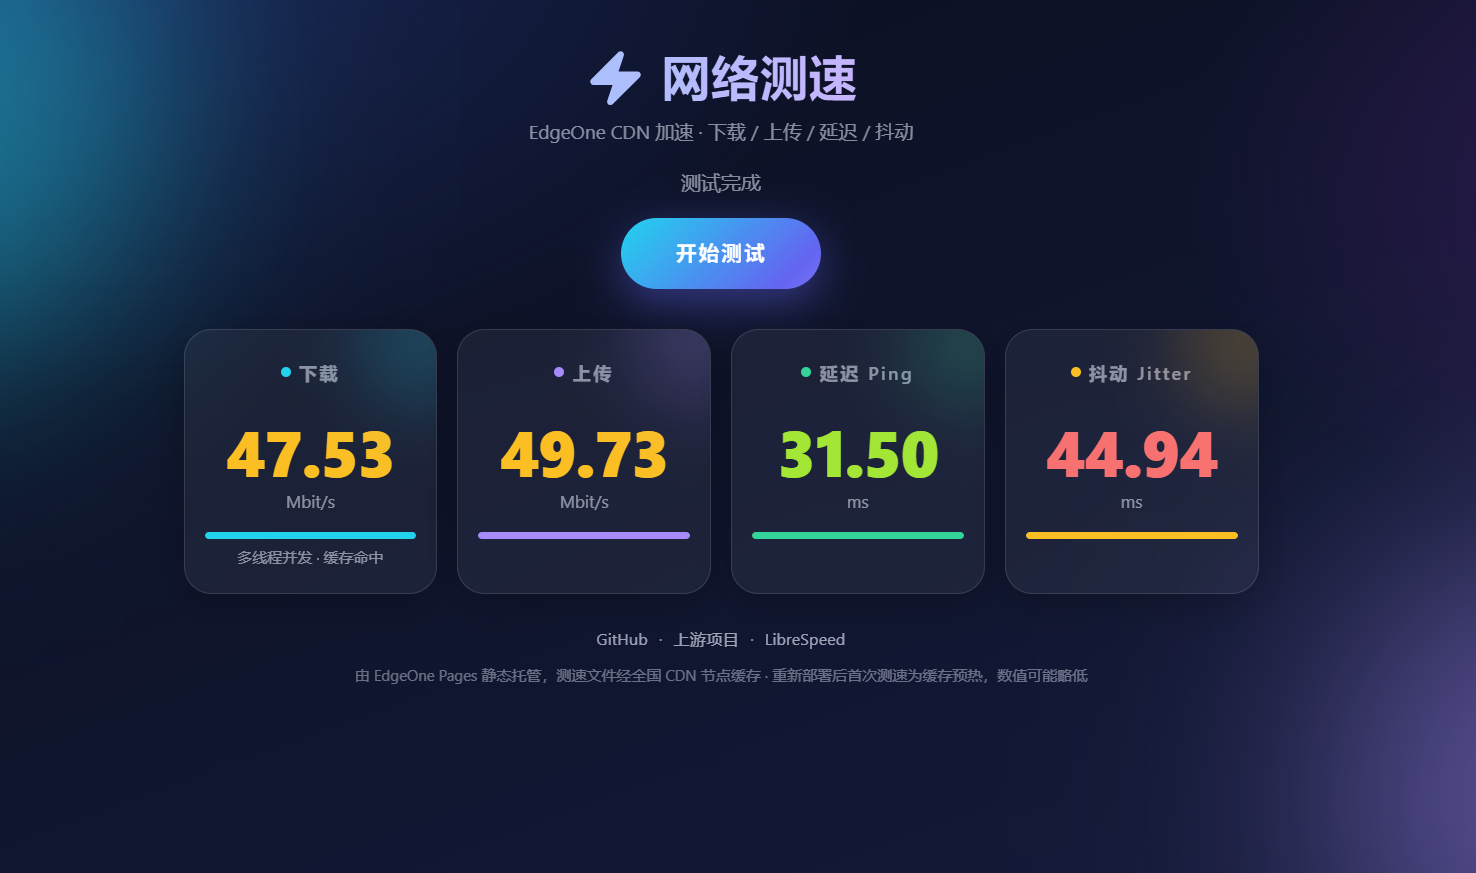
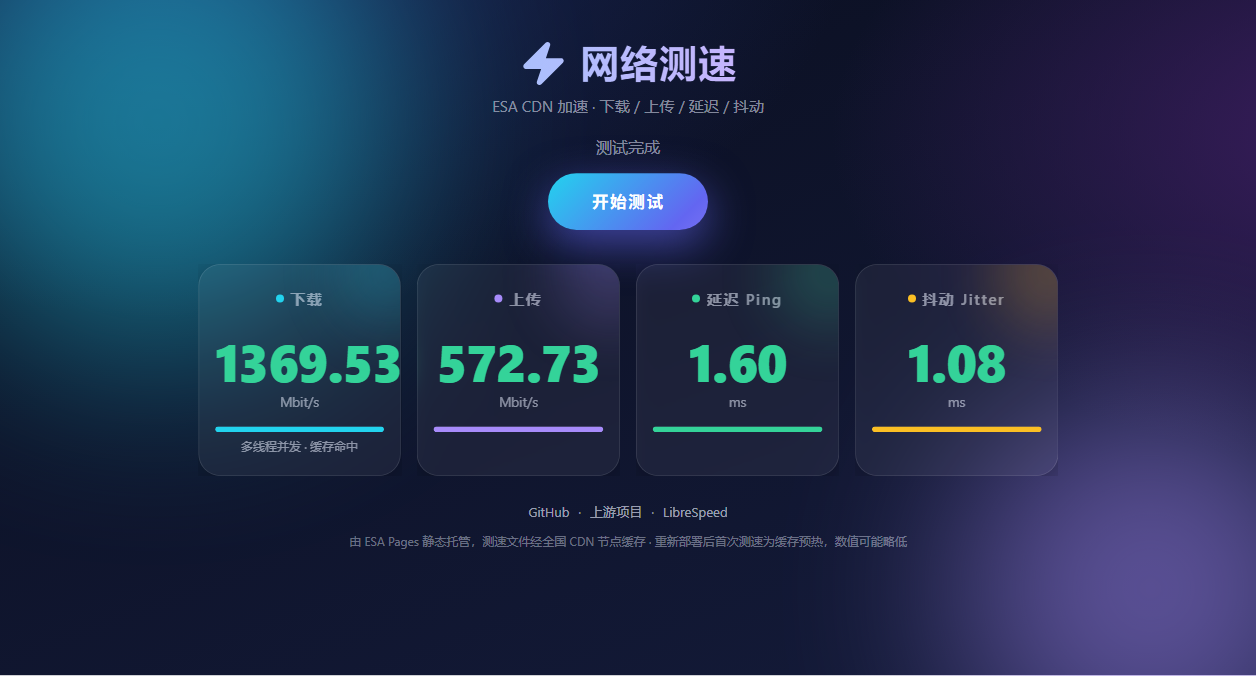
项目更名 esa-speedtest：全盘清除旧名称引用，README 重构，更新演示截图

diff --git a/index.html b/index.html
@@ -3,7 +3,7 @@
 <head>
 <meta charset="UTF-8" />
 <meta name="viewport" content="width=device-width, initial-scale=1, shrink-to-fit=no, user-scalable=no" />
-<title>EdgeOne 网络测速</title>
+<title>ESA 网络测速</title>
 <link rel="icon" type="image/svg+xml" href="favicon.svg" />
 <script type="text/javascript" src="speedtest.js"></script>
 <style type="text/css">
@@ -120,7 +120,7 @@
 <div class="container">
 	<header>
 		<h1>⚡ 网络测速</h1>
-		<p class="sub">EdgeOne CDN 加速 · 下载 / 上传 / 延迟 / 抖动</p>
+		<p class="sub">ESA CDN 加速 · 下载 / 上传 / 延迟 / 抖动</p>
 	</header>
 
 	<div id="status">点击下方按钮开始测速</div>
@@ -162,12 +162,10 @@
 	</div>
 
 	<footer>
-		<a href="https://github.com/Riku1998/eo-speedtest">GitHub</a>
-		·
-		<a href="https://github.com/Zinc23333/eo-speedtest">上游项目</a>
+		<a href="https://github.com/Riku1998/esa-speedtest">GitHub</a>
 		·
 		<a href="https://github.com/librespeed/speedtest">LibreSpeed</a>
-		<span class="note">由 EdgeOne Pages 静态托管，测速文件经全国 CDN 节点缓存 · 重新部署后首次测速为缓存预热，数值可能略低</span>
+		<span class="note">由 ESA Pages 静态托管，测速文件经全国 CDN 节点缓存 · 重新部署后首次测速为缓存预热，数值可能略低</span>
 	</footer>
 </div>
 

diff --git a/README.md b/README.md
@@ -1,23 +1,14 @@
-# eo-speedtest
+# esa-speedtest
 
-一个基于 [LibreSpeed](https://github.com/librespeed/speedtest) 的网页版网络速度测试工具，可部署在腾讯 EdgeOne Pages 或阿里云 ESA Pages，用于测试网络的下载速度、上传速度、延迟和抖动。
+一个基于 [LibreSpeed](https://github.com/librespeed/speedtest) 的网页版网络速度测试工具，部署于阿里云 ESA Pages，用于测试网络的下载速度、上传速度、延迟和抖动。
 
 ![测速结果示例](/screenshot.png)
 
-## 部署方法
-
-### 腾讯 EdgeOne Pages
-
-clone 项目并进入项目目录：
-``` sh
-edgeone pages deploy -n speedtest
-```
-
-### 阿里云 ESA Pages（本适配分支）
+## 部署方法（阿里云 ESA Pages）
 
 1. 在阿里云 ESA 控制台开启「函数和 Pages」服务；
 2. 左侧导航选择「边缘计算和 AI > 函数和 Pages」，创建 Pages 并选择「导入 GitHub 仓库」；
-3. 选择本仓库（`eo-speedtest-esa`），生产分支 `main`；
+3. 选择本仓库（`esa-speedtest`），生产分支 `main`；
 4. 根目录的 `esa.jsonc` 已配置为纯静态（跳过安装/构建、静态资源目录为根目录），无需在控制台修改构建命令；
 5. 部署完成后，**必须配置缓存规则**（`esa.jsonc` 只管理构建与路由，不管理缓存）：
    - 进入 ESA 站点 → 规则 → 缓存规则；
@@ -25,26 +16,24 @@ edgeone pages deploy -n speedtest
    - 设置「边缘缓存 TTL」与「浏览器缓存 TTL」为 1 年（或自定义），保存并发布；
    - 作用：让 `garbage.bin` 长期缓存在边缘节点，测速下载才会命中 CDN 缓存而非回源。
 
-## 下载测速原理（本 fork 的修改）
+## 下载测速原理
 
-原 LibreSpeed 依赖后端动态接口（`garbage.php` / `empty.php`）生成数据流，而纯静态的 EdgeOne/ESA Pages 没有这些接口：下载测速会反复请求不存在的路径、拿到 404 小页面，导致**下载速度严重偏低、上传正常**。
+原 LibreSpeed 依赖后端动态接口（`garbage.php` / `empty.php`）生成数据流，而纯静态的 ESA Pages 没有这些接口：下载测速会反复请求不存在的路径、拿到 404 小页面，导致**下载速度严重偏低、上传正常**。
 
-本 fork 改为**纯静态 + CDN 缓存下载**，链路为「用户 → 就近 CDN 节点 → 缓存测速文件」：
+本仓库改为**纯静态 + CDN 缓存下载**，链路为「用户 → 就近 ESA CDN 节点 → 缓存测速文件」：
 
 - `garbage.bin`：24 MiB 随机不可压缩数据，作为测速文件（24 MiB ÷ 8 MiB 段 = 3 段，多线程循环 Range 下载；受 GitHub 网页上传 25 MiB 单文件上限约束）；
 - 下载测试对**恒定 URL** 发起**多线程 Range 请求**（默认 6 线程、每段 8 MiB，按 Range 循环下载同一文件），URL 不带随机缓存破坏参数，保证每次请求都命中 CDN 边缘缓存；
-- 缓存配置：EdgeOne 版用 `edgeone.json`；阿里云 ESA 版在 ESA 控制台配置缓存规则（见上）；
+- 缓存配置：在 ESA 控制台配置缓存规则（见上），让测速文件长期缓存在边缘节点；
 - 上传/延迟/抖动沿用 LibreSpeed 逻辑（上传测本地上行进度，不受服务端影响）。
-
-> 注意：腾讯云 `edgeone.json` 为 EdgeOne 私有格式，在阿里云 ESA 上不生效；本 ESA 适配分支以 `esa.jsonc` 管理构建，缓存规则在控制台配置，请勿把两个配置文件混用。
 
 如需调整下载参数：修改 `speedtest_worker.js` 中的 `dl_file_size_mb`（须与实际文件大小一致）和 `dl_range_mb`。
 
 ## 说明
 
-- 免费版 CDN 通常存在带宽 QoS 限速（腾讯 EdgeOne 免费版实测单连接约 7 Mbps、总吞吐约 15–23 Mbps；阿里云 ESA 免费版官方明示限制峰值带宽与单请求速率，但未公布具体数值），测速结果受平台免费档位限制，不代表家庭宽带真实能力；
+- 阿里云 ESA 免费版官方明示限制峰值带宽与单请求速率（未公布具体数值），测速结果受免费档位限制，不代表家庭宽带真实能力；
 - 中国大陆加速需完成 ICP 备案，否则自定义域名无法接入国内节点。
 
 ## 许可证
 
-本项目基于 [LibreSpeed](https://github.com/librespeed/speedtest)，遵循其开源许可证。
+本项目 fork 自 [eo-speedtest](https://github.com/Zinc23333/eo-speedtest)，基于 [LibreSpeed](https://github.com/librespeed/speedtest)，遵循其开源许可证。
